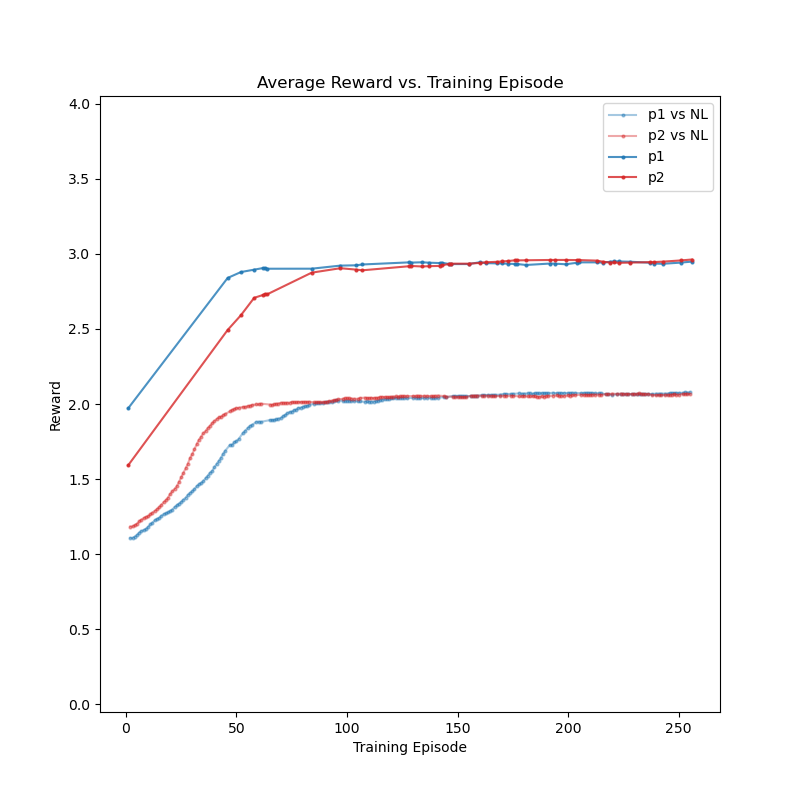
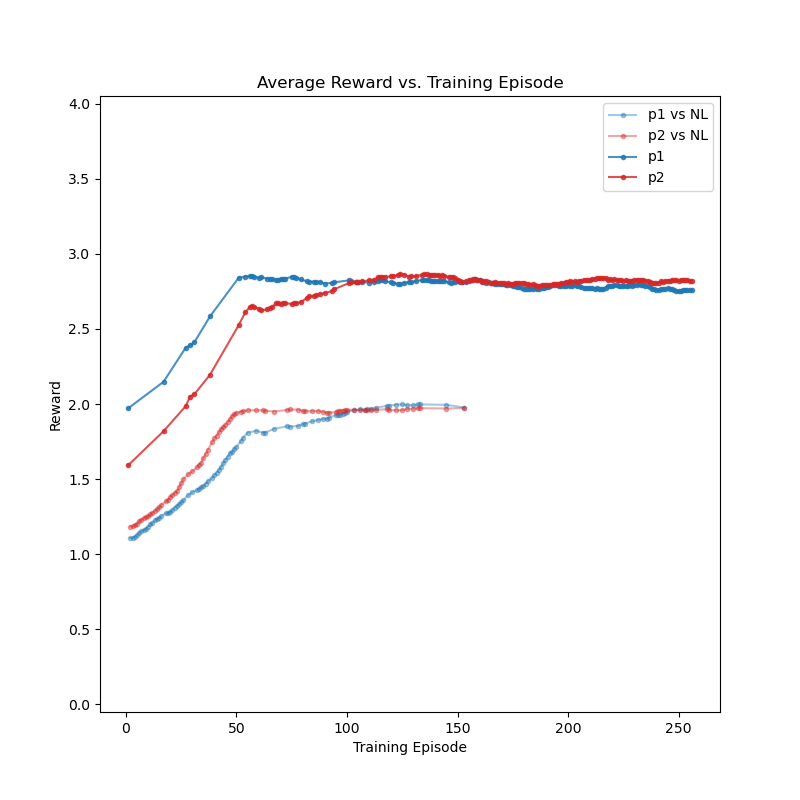
anneal flag

Changed region(s): [[0.1562, 0.3125, 0.875, 0.6875]]

diff --git a/src/plot/selfrewmeans.py b/src/plot/selfrewmeans.py
@@ -50,7 +50,7 @@ plt.plot(
     alpha=0.4,
     color="tab:blue",
     marker="o",
-    markersize=2,
+    markersize=3,
 )
 y_v_nl = [rew["rew 1"] for rew in rewmeans if not rew["other"]]
 plt.plot(
@@ -60,7 +60,7 @@ plt.plot(
     alpha=0.4,
     color="tab:red",
     marker="o",
-    markersize=2,
+    markersize=3,
 )
 
 x_v_non_nl = [rew["ep"] for rew in rewmeans if rew["other"]]
@@ -72,7 +72,7 @@ plt.plot(
     alpha=0.8,
     color="tab:blue",
     marker="o",
-    markersize=2,
+    markersize=3,
 )
 y_v_non_nl = [rew["rew 1"] for rew in rewmeans if rew["other"]]
 plt.plot(
@@ -82,7 +82,7 @@ plt.plot(
     alpha=0.8,
     color="tab:red",
     marker="o",
-    markersize=2,
+    markersize=3,
 )
 
 plt.legend()

diff --git a/src/main_mfos_self.py b/src/main_mfos_self.py
@@ -24,6 +24,7 @@ parser.add_argument("--threshold", type=str, default=None)
 parser.add_argument("--pwlinear", type=int, default=None)
 parser.add_argument("--ccdr", type=int, default=None)
 parser.add_argument("--adam", type=int, default=False)
+parser.add_argument("--anneal", type=int, default=False)
 
 parser.add_argument("--entropy", type=float, default=0.01)
 parser.add_argument("--checkpoint", type=str, default="")
@@ -378,7 +379,7 @@ def main():
 
     save_freq = max_episodes // 4
 
-    lamb = 1.0
+    lamb = 1.0 if args.anneal else -1.0
     lamb_anneal = 0.0015 * (1024 / max_episodes)
     name = f"runs/self/{args.exp_name}"
 
